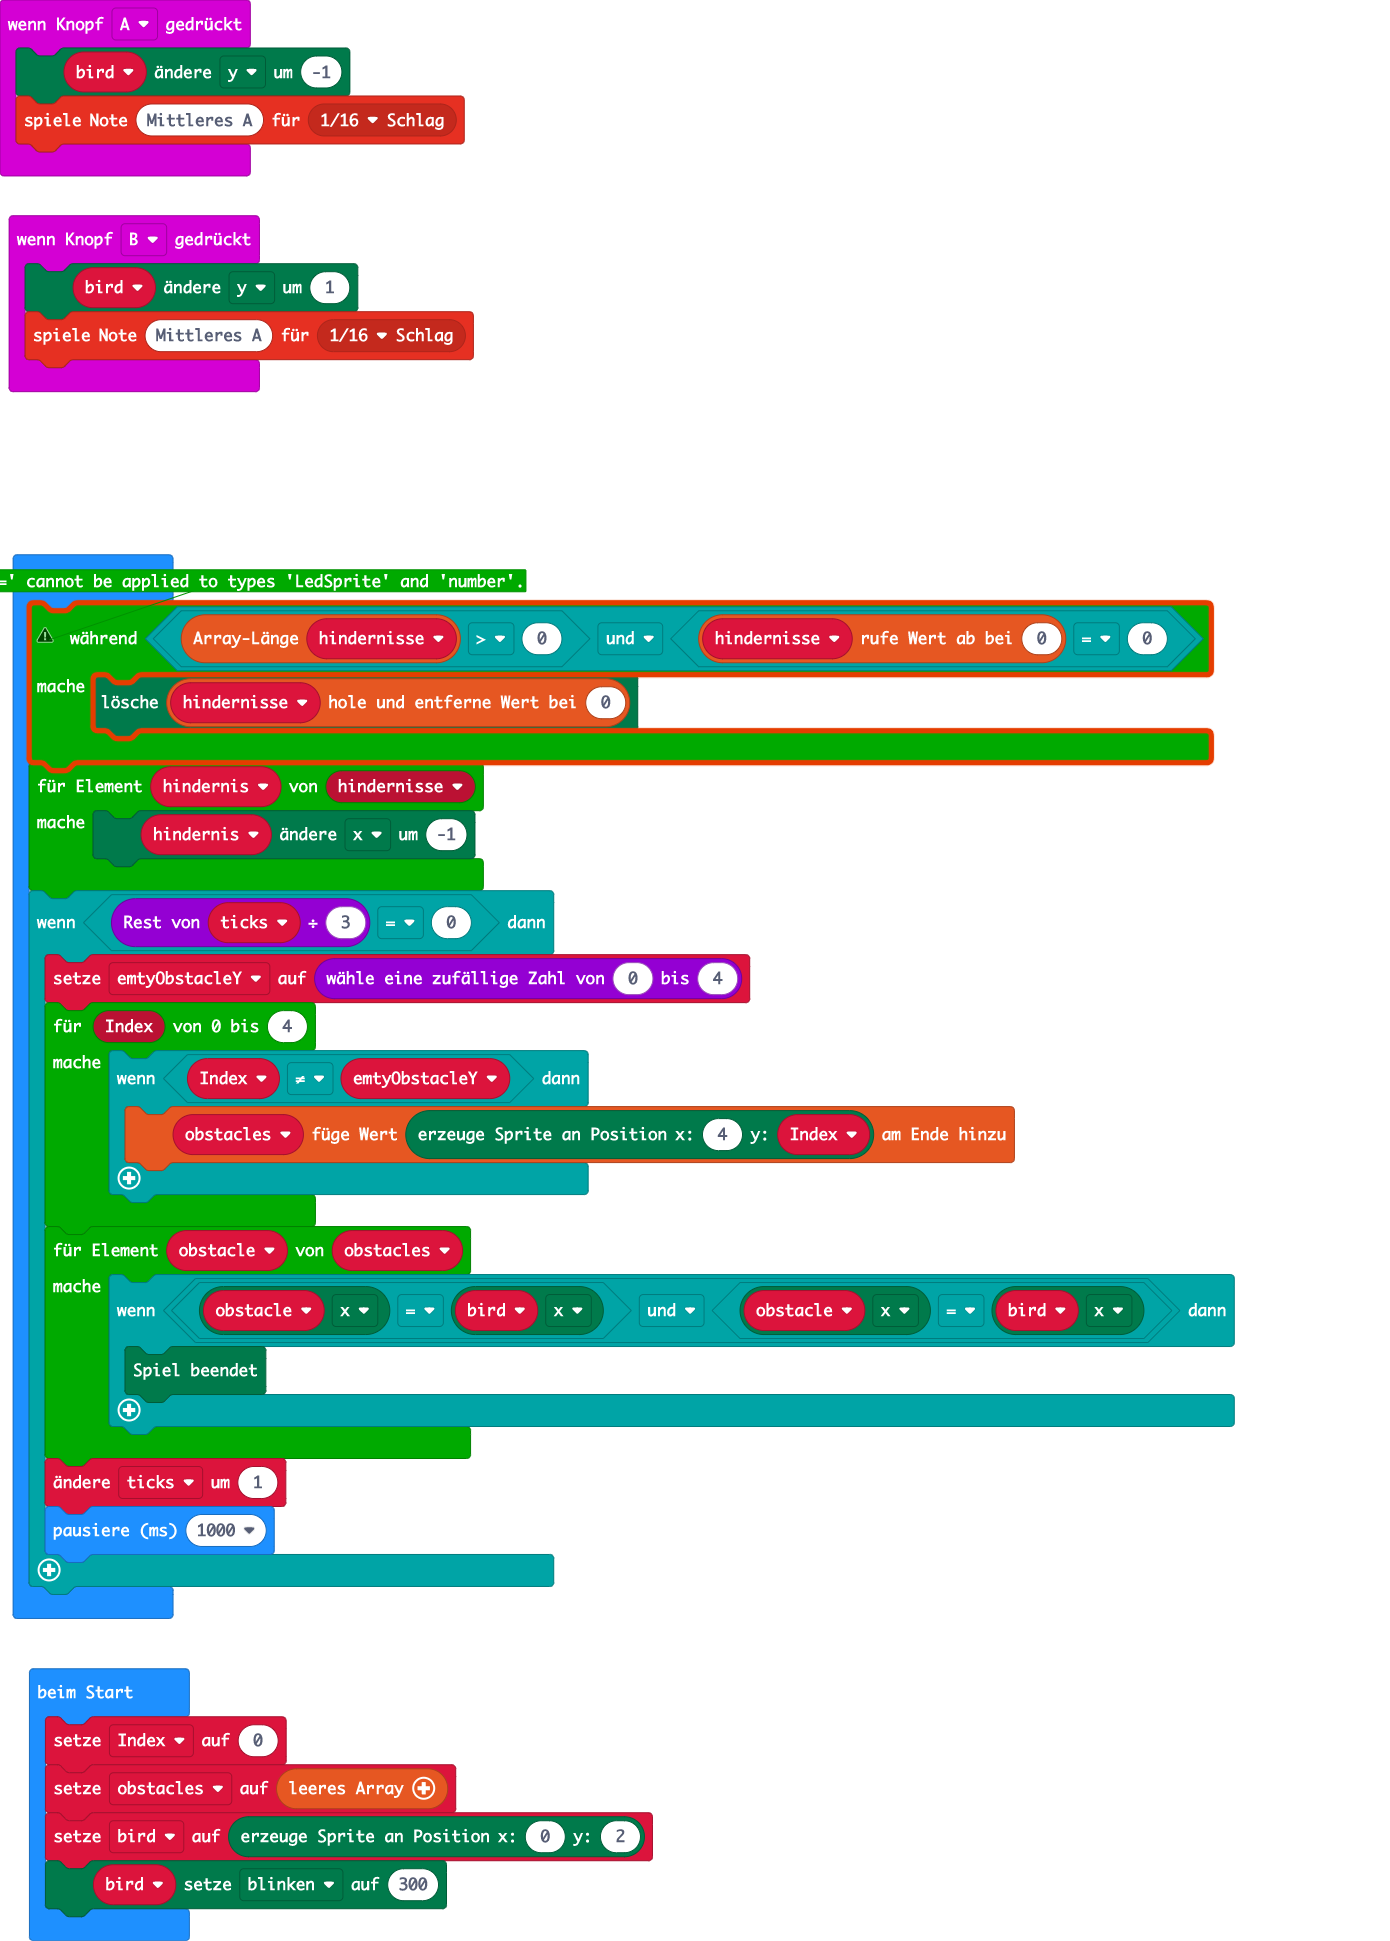
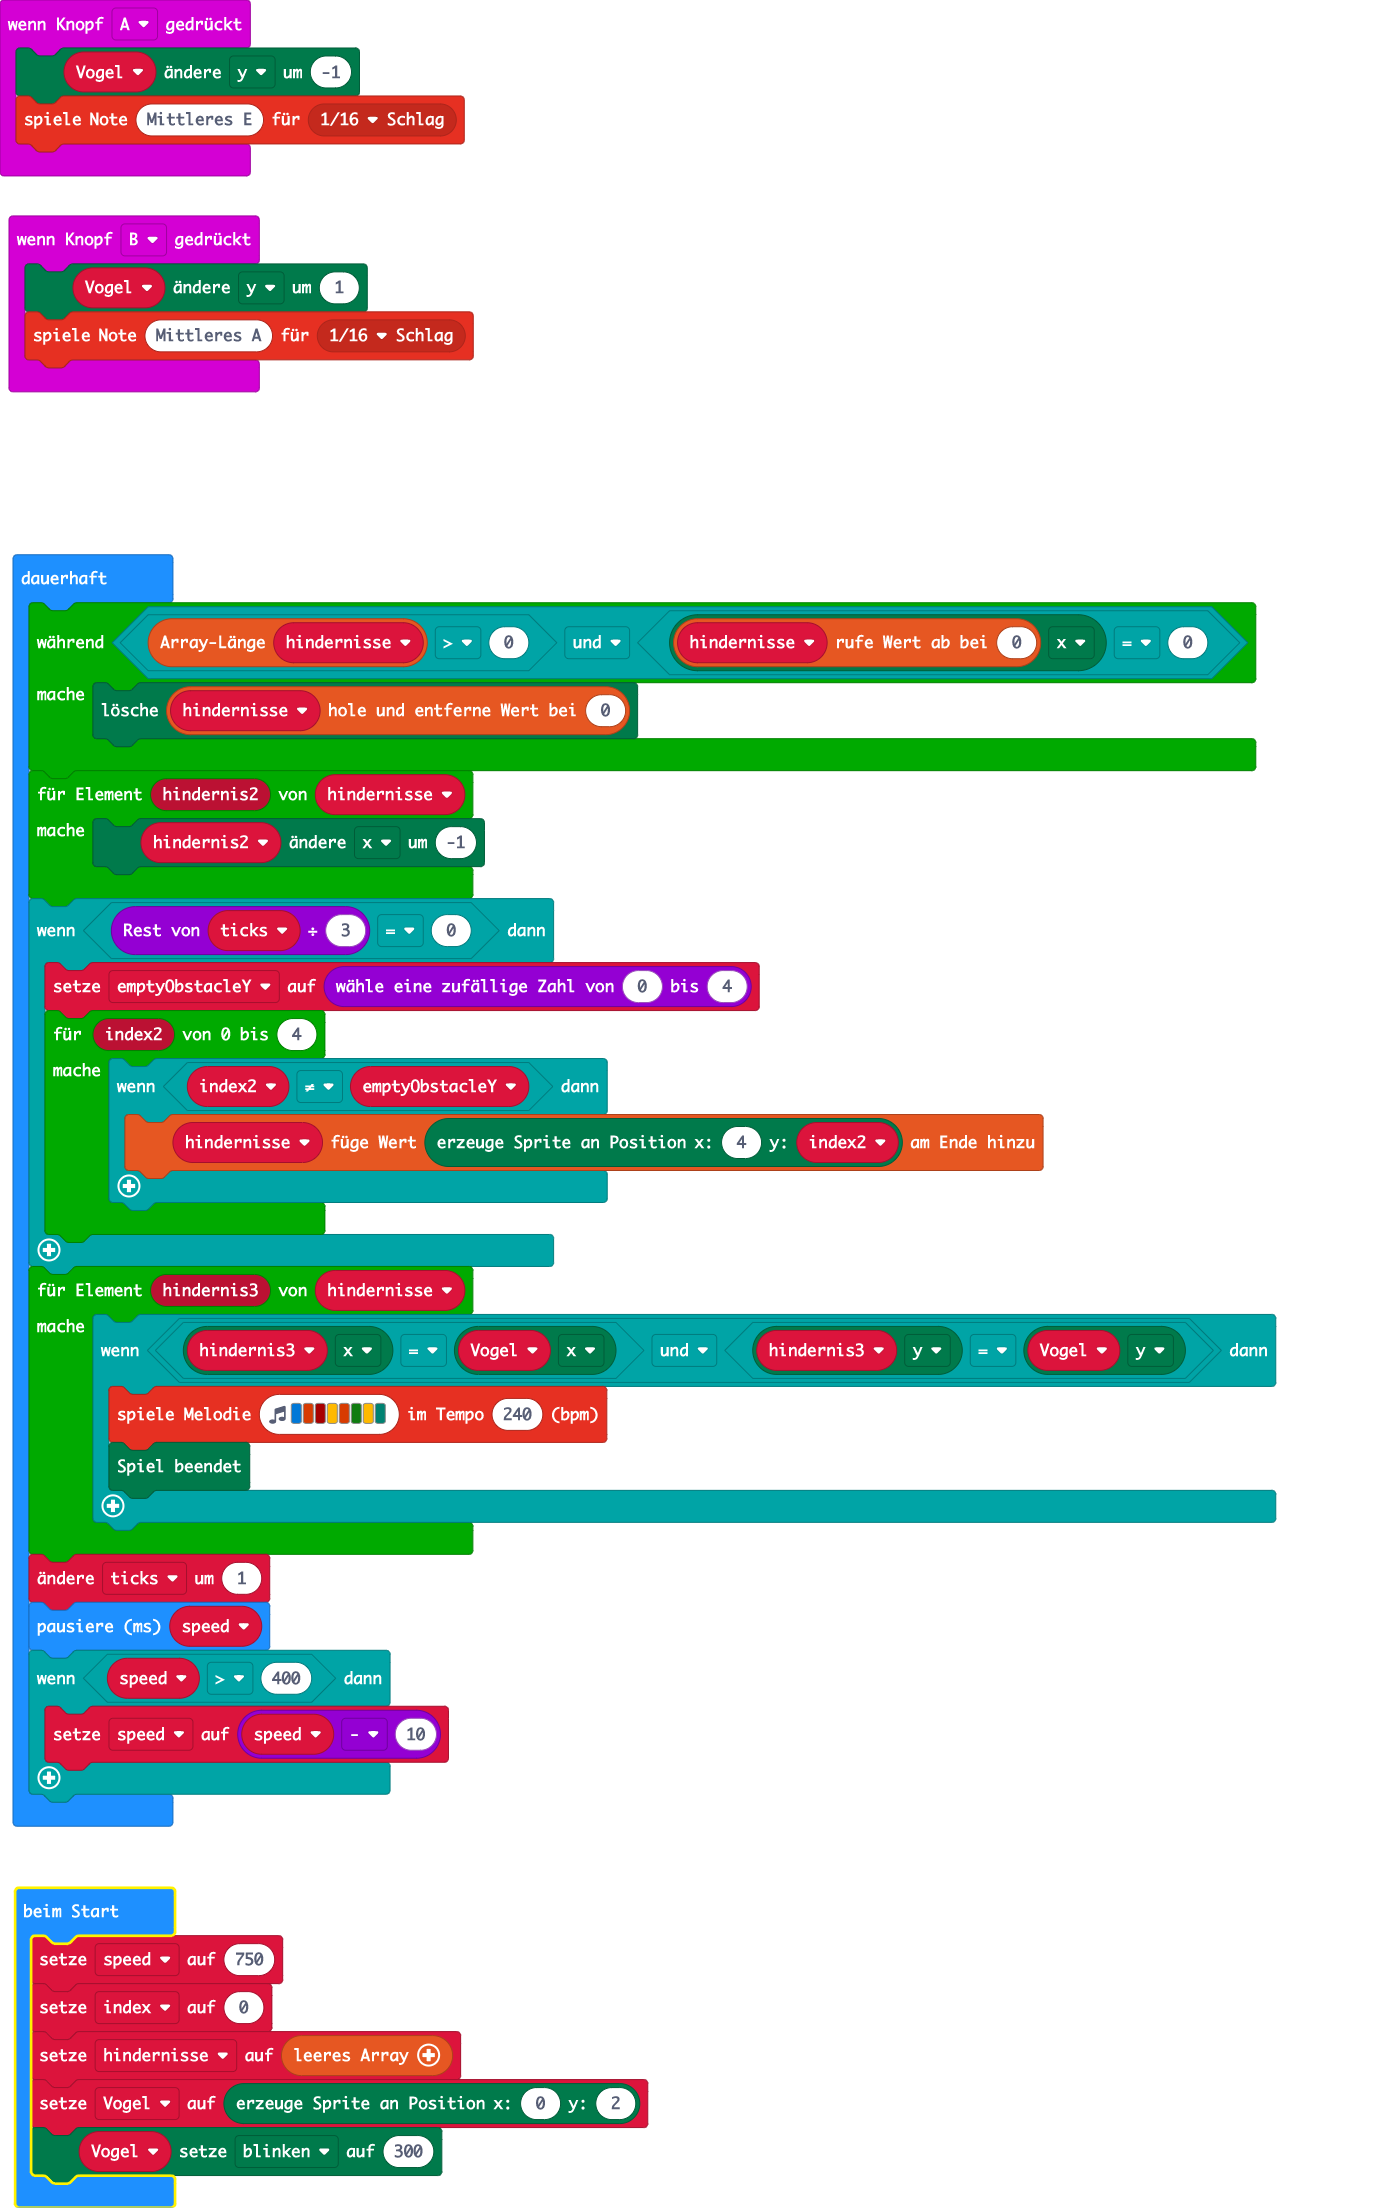
Aktualisiere main.blocks, main.ts

diff --git a/main.ts b/main.ts
@@ -1,39 +1,43 @@
 input.onButtonPressed(Button.A, function () {
-    bird.change(LedSpriteProperty.Y, -1)
-    music.playTone(440, music.beat(BeatFraction.Sixteenth))
+    Vogel.change(LedSpriteProperty.Y, -1)
+    music.playTone(330, music.beat(BeatFraction.Sixteenth))
 })
 input.onButtonPressed(Button.B, function () {
-    bird.change(LedSpriteProperty.Y, 1)
+    Vogel.change(LedSpriteProperty.Y, 1)
     music.playTone(440, music.beat(BeatFraction.Sixteenth))
 })
-let emtyObstacleY = 0
+let emptyObstacleY = 0
 let ticks = 0
-let bird: game.LedSprite = null
-let Index = 0
-let obstacles: game.LedSprite[] = []
-bird = game.createSprite(0, 2)
-bird.set(LedSpriteProperty.Blink, 300)
+let Vogel: game.LedSprite = null
+let speed = 750
+let index = 0
+let hindernisse: game.LedSprite[] = []
+Vogel = game.createSprite(0, 2)
+Vogel.set(LedSpriteProperty.Blink, 300)
 basic.forever(function () {
-    let hindernisse: game.LedSprite[] = []
-    while (hindernisse.length > 0 && hindernisse[0] == 0) {
+    while (hindernisse.length > 0 && hindernisse[0].get(LedSpriteProperty.X) == 0) {
         hindernisse.removeAt(0).delete()
     }
-    for (let hindernis of hindernisse) {
-        hindernis.change(LedSpriteProperty.X, -1)
+    for (let hindernis2 of hindernisse) {
+        hindernis2.change(LedSpriteProperty.X, -1)
     }
     if (ticks % 3 == 0) {
-        emtyObstacleY = randint(0, 4)
-        for (let Index = 0; Index <= 4; Index++) {
-            if (Index != emtyObstacleY) {
-                obstacles.push(game.createSprite(4, Index))
+        emptyObstacleY = randint(0, 4)
+        for (let index2 = 0; index2 <= 4; index2++) {
+            if (index2 != emptyObstacleY) {
+                hindernisse.push(game.createSprite(4, index2))
             }
         }
-        for (let obstacle of obstacles) {
-            if (obstacle.get(LedSpriteProperty.X) == bird.get(LedSpriteProperty.X) && obstacle.get(LedSpriteProperty.X) == bird.get(LedSpriteProperty.X)) {
-                game.gameOver()
-            }
+    }
+    for (let hindernis3 of hindernisse) {
+        if (hindernis3.get(LedSpriteProperty.X) == Vogel.get(LedSpriteProperty.X) && hindernis3.get(LedSpriteProperty.Y) == Vogel.get(LedSpriteProperty.Y)) {
+            music.playMelody("E B C5 A B G A F ", 240)
+            game.gameOver()
         }
-        ticks += 1
-        basic.pause(1000)
+    }
+    ticks += 1
+    basic.pause(speed)
+    if (speed > 400) {
+        speed = speed - 10
     }
 })
